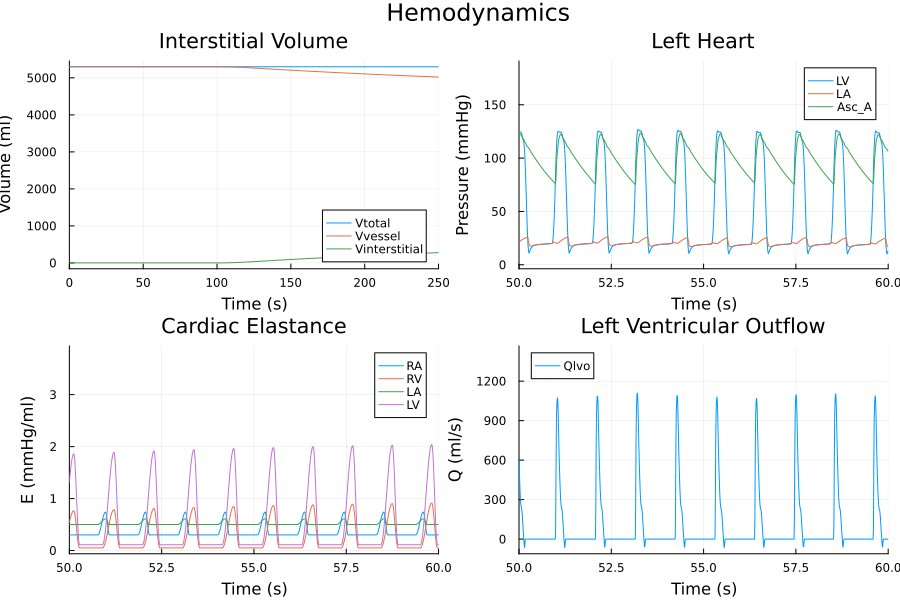
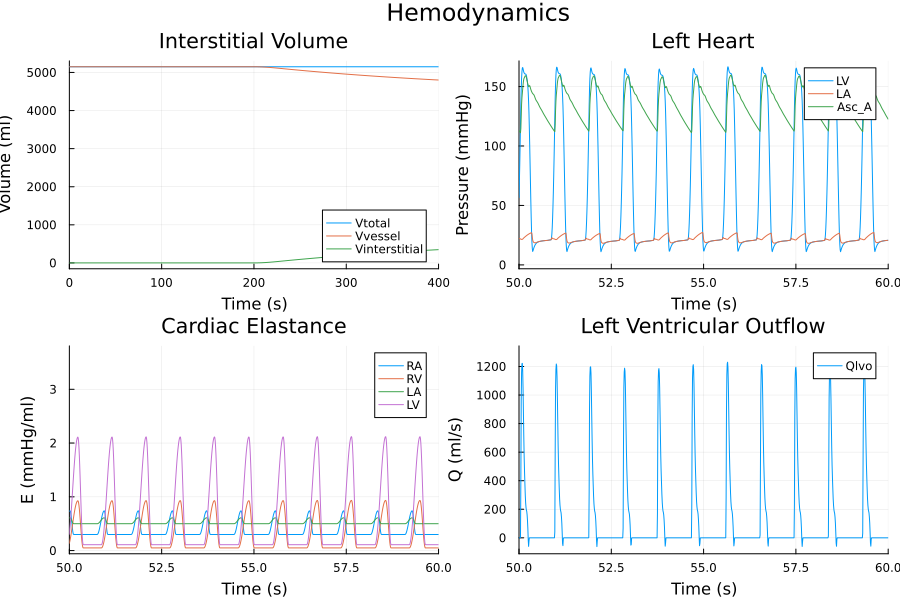
Finalize changes for v3.4.0 release

diff --git a/README.md b/README.md
@@ -41,11 +41,6 @@ This repository contains a simulation of the human cardiopulmonary system develo
     - Cerebral, coronary, and muscular autoregulation
 
 
-
-![Reflex Plot](Images/reflex.png)
-
-*Figure: Arterial Baroreflex and Cardiopulmonary Reflex action on arteriole resistance, heart rate, venous tone, and ventricular contractility in a 90° stand test.*
-
 ## Simulation Scenarios
 
 The model supports simulation of:
@@ -54,9 +49,39 @@ The model supports simulation of:
 - Altered-gravity environments
 - Lower body negative pressure (LBNP) protocols
 
-![Reflex Plot](Images/hemodynamics.png)
+![DOE Plot](Images/doe.png)
 
-*Figure: Interstitial volume (90° stand test), left heart pressures, cardiac elastances, and ventricular outflow.*
+*Figure: Design of experiments showing a 90° stand test at 200 seconds under terrestrial gravity.*
+
+## Images
+
+![Reflex1 Plot](Images/reflex1.png)
+
+*Figure: Major cardiovascular control effectors: arteriole resistance, venous tone, heart rate, and ventricular contractility.*
+
+![Reflex2 Plot](Images/reflex2.png)
+
+*Figure: Detail of the reflex model showing efferent pathways for the arterial baroreflex, cardiopulmonary reflex, pulmonary stretch reflex, peripheral chemoreceptors, and CNS ischemic offset. Cerebral autoregulation is also demonstrated (note: autoregulation is also applied to the coronary and skeletal muscle microcirculations).*
+
+![Hemodynamics Plot](Images/hemodynamics.png)
+
+*Figure: Major hemodynamics showing interstitial volume change in tilt, and detail of elastances, arterial pressure waveform and ventricular outflow demonstrating valve action.*
+
+![Beat2Beat Plot](Images/beat2beat.png)
+
+*Figure: Beat to beat hemodynamics for a 90° stand test. Note: for this WIP release the parameters still need to be tweaked to reduce pressure in supine and better maintain it in tilt.*
+
+![Volumes Plot](Images/volumes.png)
+
+*Figure: Average compartment volumes during stand test. Note the rise in volumes in the lower body, fall in venous return, and maintenance of head blood flow due to cerebral autoregulation.*
+
+![Lungs Plot](Images/lungs.png)
+
+*Figure: Pulmonary Mechanics.*
+
+![Gas Exchange Plot](Images/gas_exchange.png)
+
+*Figure: Gas exchange dynamics showing fractional concentrations of oxygen and carbon dioxide in the dead space and alveoli, arterial saturation, the pulmonary shunt, dynamic tissue demand, and zonal blood flow in the lungs.*
 
 ## Model Basis
 
